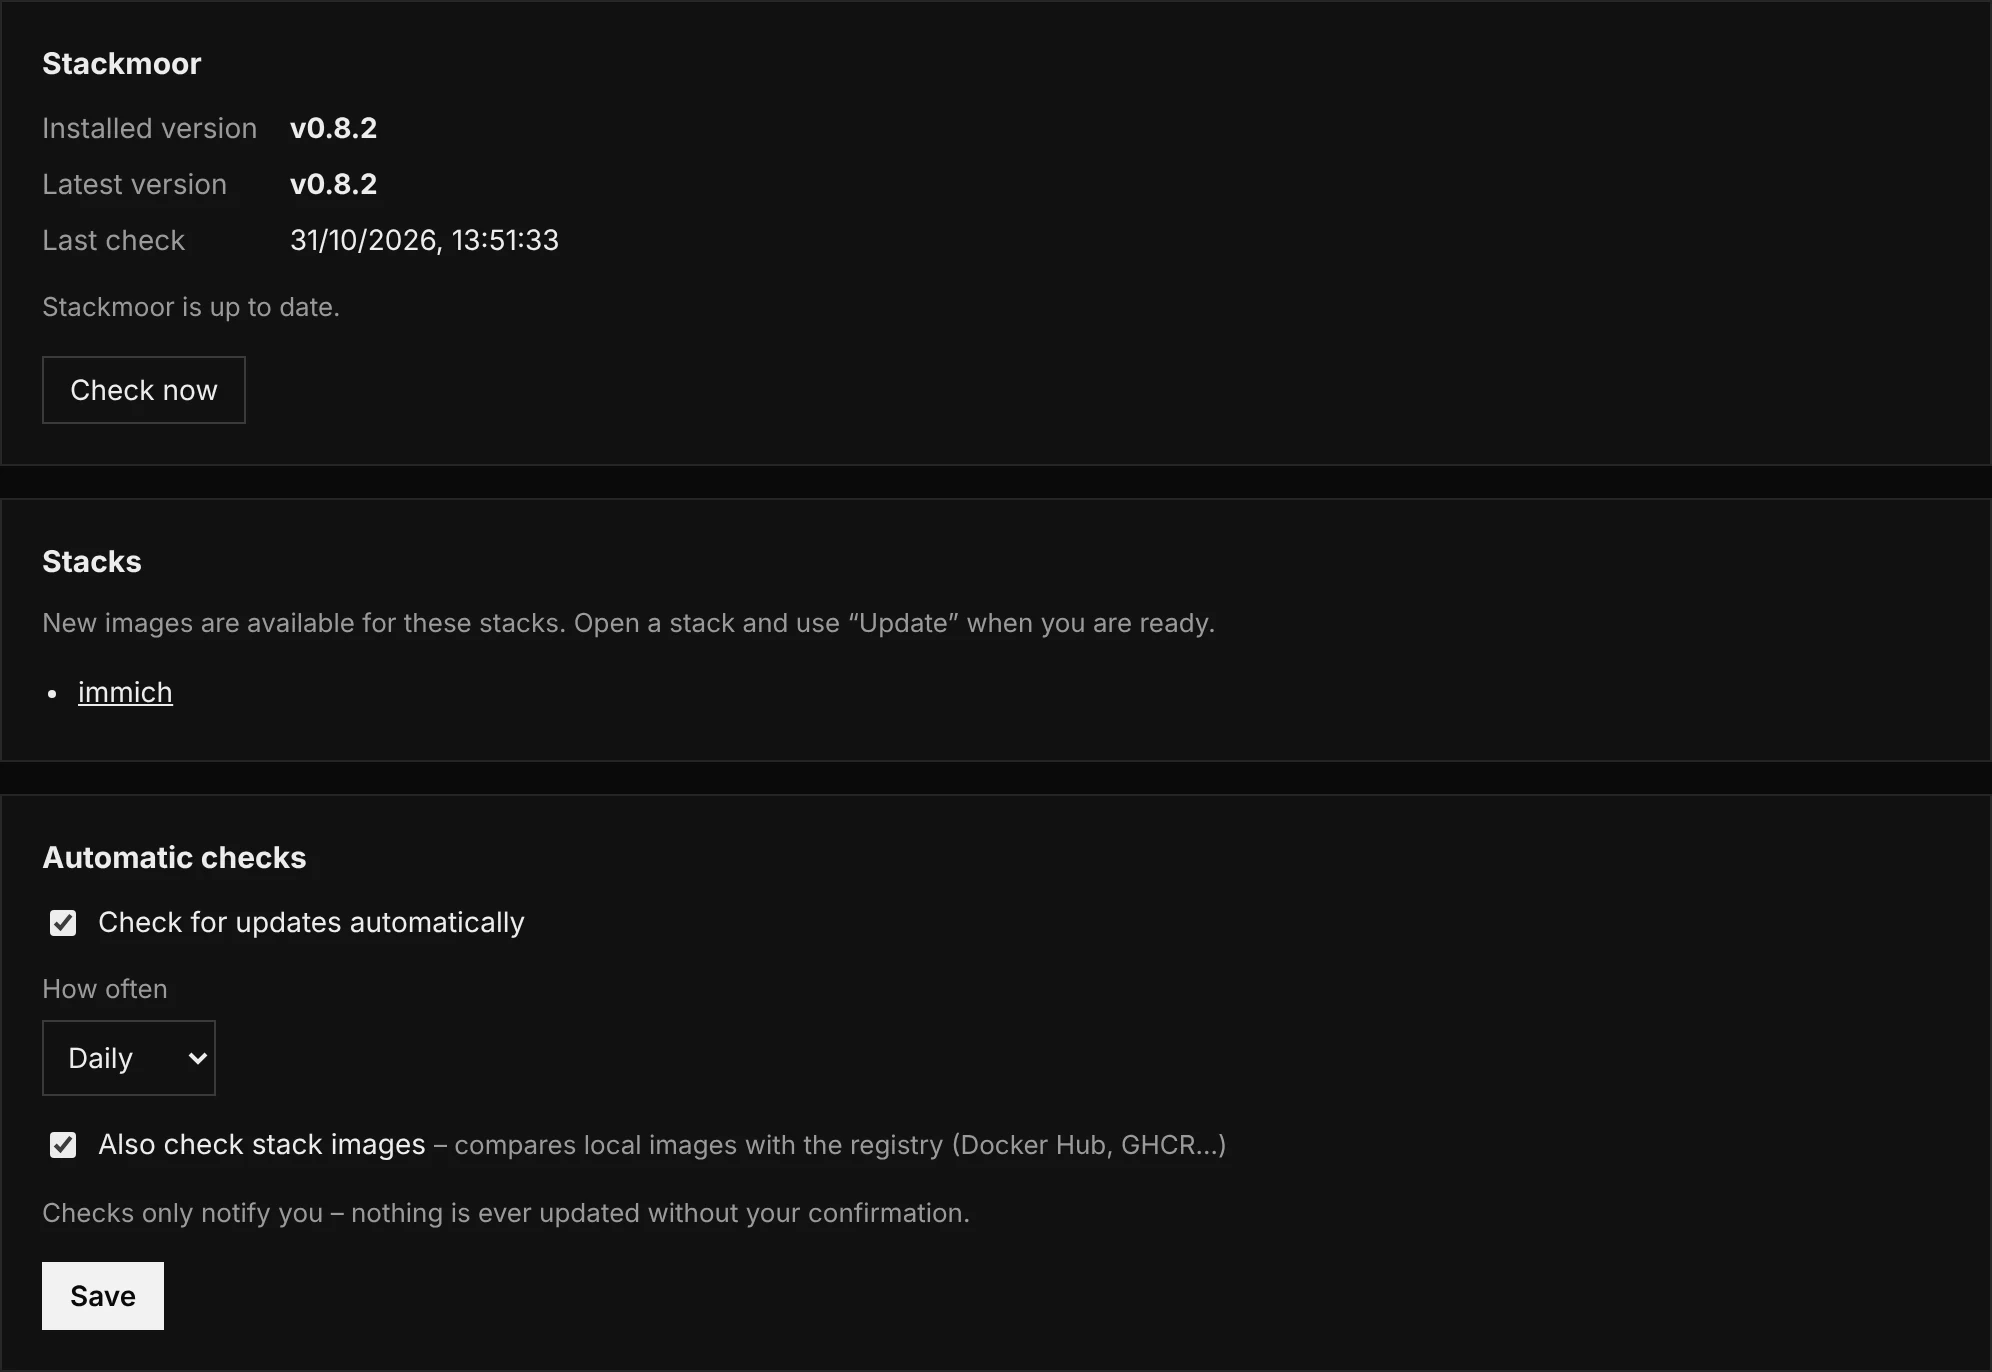
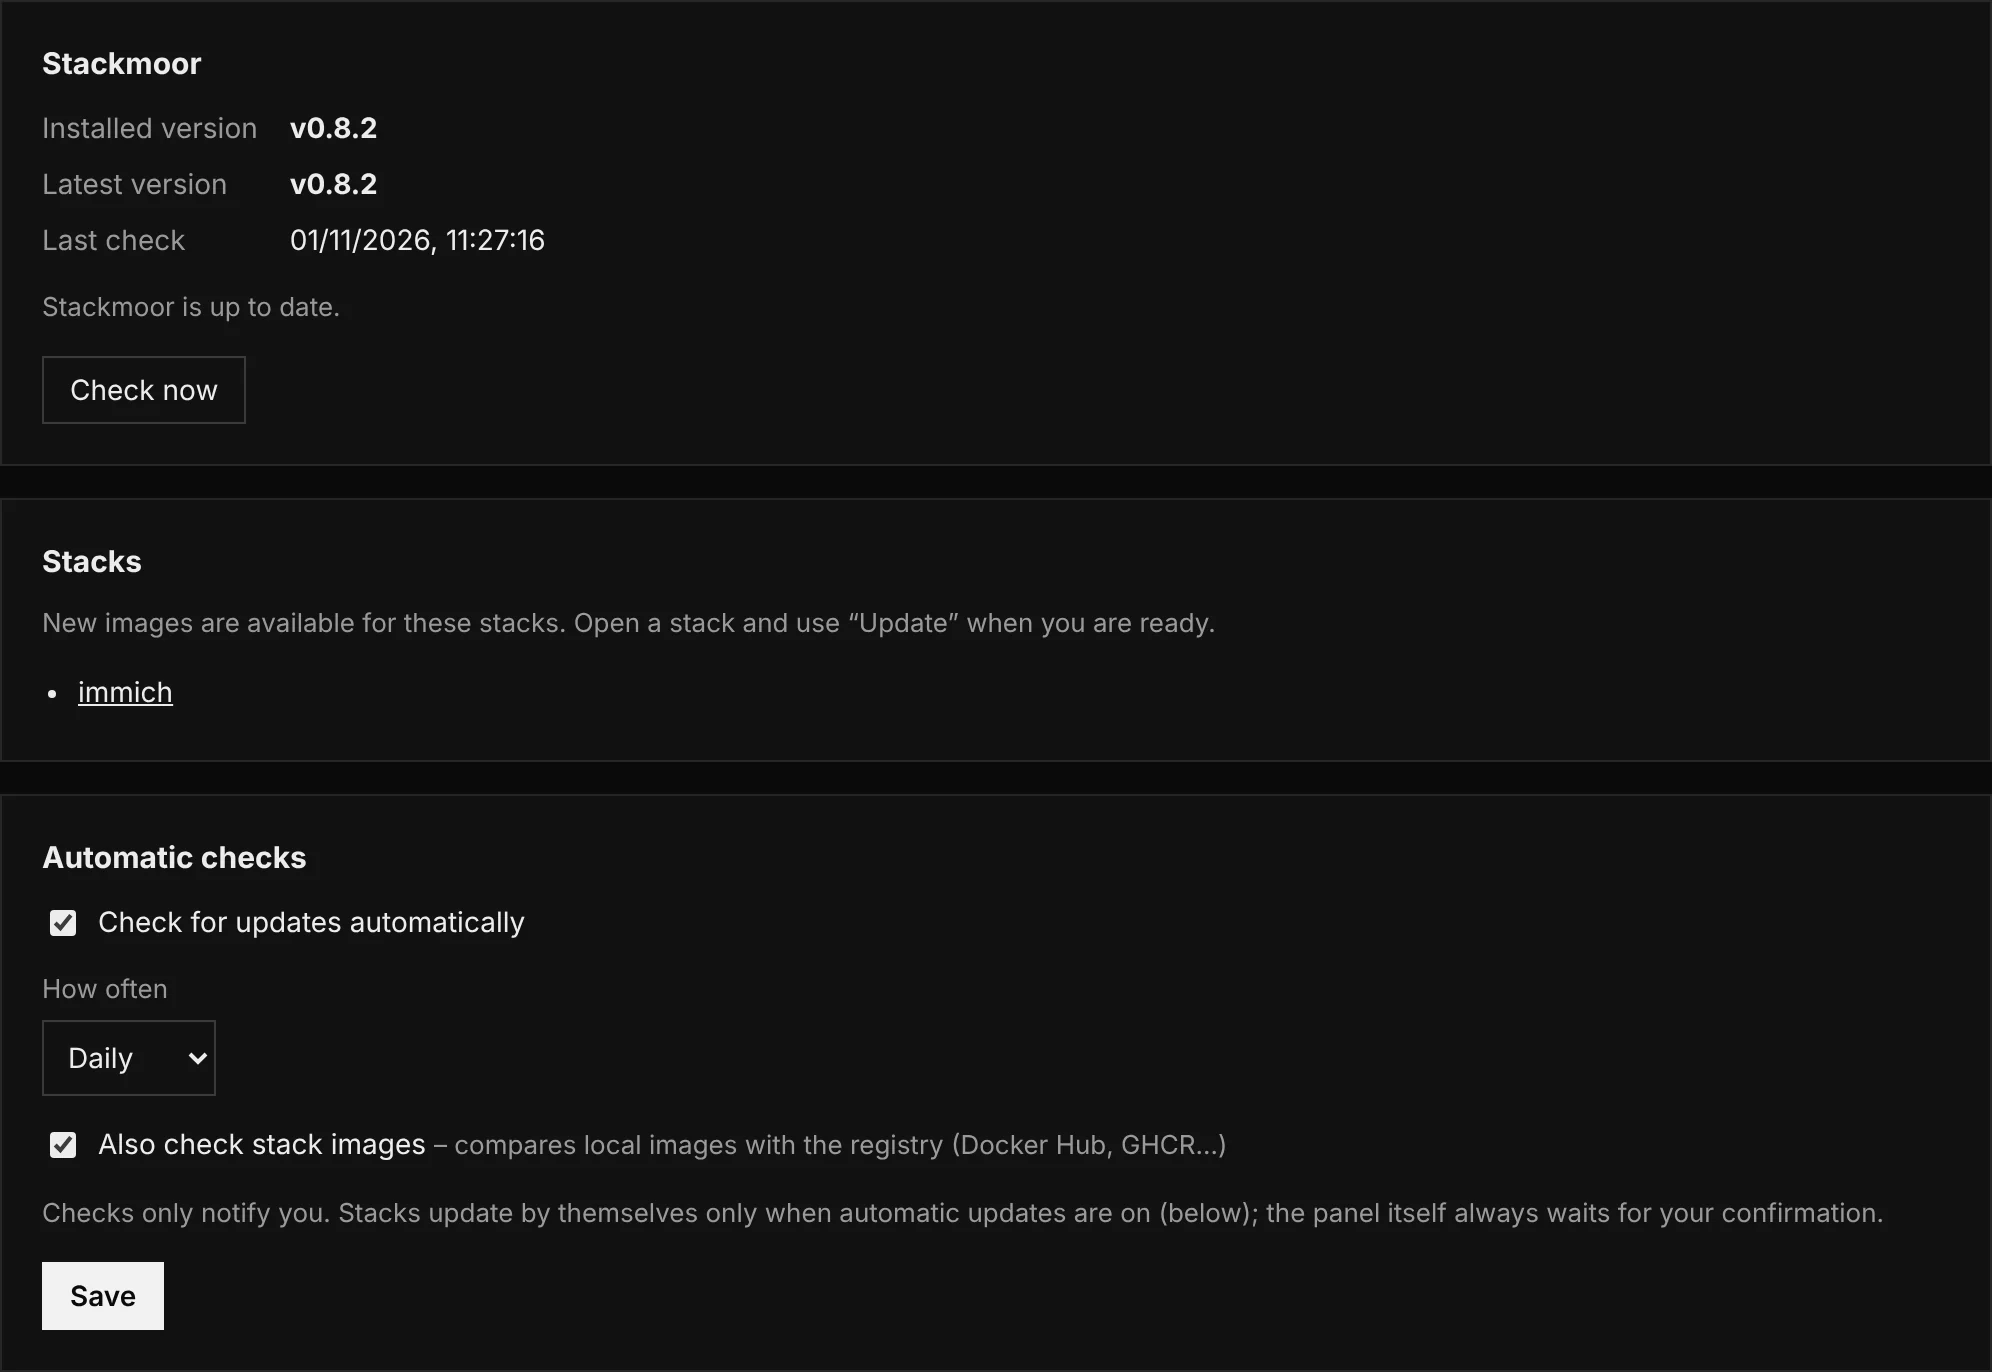
Docs: automatic updates, Server page, proxy redirects

diff --git a/src/content/docs/pl/guides/updates.md b/src/content/docs/pl/guides/updates.md
@@ -3,7 +3,7 @@ title: Aktualizacje
 description: Jak Stackmoor sprawdza nowe wersje siebie i obrazów Twoich stacków.
 ---
 
-Stackmoor informuje, gdy pojawi się coś nowego. **Nic nie jest aktualizowane bez Twojego potwierdzenia.**
+Stackmoor informuje, gdy pojawi się coś nowego. Stacki aktualizują się same tylko po włączeniu [automatycznych aktualizacji](#automatyczne-aktualizacje); sam panel zawsze czeka na Twoje potwierdzenie.
 
 ## Ustawienia
 
@@ -14,8 +14,8 @@ Stackmoor informuje, gdy pojawi się coś nowego. **Nic nie jest aktualizowane b
 - **Sprawdź teraz** – sprawdza od razu.
 
 <figure class="shot" data-shot="updates">
-<img class="shot-light" src="/screens/pl/updates-light.webp" alt="Ustawienia → Aktualizacje" width="996" height="686" loading="lazy" decoding="async" />
-<img class="shot-dark" src="/screens/pl/updates-dark.webp" alt="Ustawienia → Aktualizacje" width="996" height="686" loading="lazy" decoding="async" />
+<img class="shot-light" src="/screens/pl/updates-light.webp" alt="Ustawienia → Aktualizacje" width="996" height="705" loading="lazy" decoding="async" />
+<img class="shot-dark" src="/screens/pl/updates-dark.webp" alt="Ustawienia → Aktualizacje" width="996" height="705" loading="lazy" decoding="async" />
 </figure>
 
 ## Aktualizacja stacka
@@ -23,6 +23,33 @@ Stackmoor informuje, gdy pojawi się coś nowego. **Nic nie jest aktualizowane b
 Stack z nowym obrazem ma na pulpicie oznaczenie **Aktualizacja**, a na liście stacków strzałkę. Kliknij **Aktualizuj** na jego karcie (albo otwórz go i kliknij **Aktualizuj**): nowe obrazy zostaną pobrane, a kontenery odtworzone. Dane w `./data` zostają.
 
 Jeśli [kopie zapasowe](/pl/backups/setup/) są skonfigurowane, najpierw robi się kopia stacka. Jeśli się nie uda, aktualizacja się nie wykona.
+
+## Automatyczne aktualizacje
+
+Jak w Cloudronie, stacki mogą aktualizować się same. Domyślnie jest to **wyłączone**. Włączysz to w **Ustawienia → Aktualizacje → Automatyczne aktualizacje stacków**:
+
+- wybierz dni i godzinę (np. codziennie o 4:00 – po nocnej kopii),
+- odznacz stacki, które wolisz aktualizować sam, np. bazy danych. Nowe stacki są zaznaczone.
+
+<figure class="shot" data-shot="auto-updates">
+<img class="shot-light" src="/screens/pl/auto-updates-light.webp" alt="Automatyczne aktualizacje stacków" width="996" height="885" loading="lazy" decoding="async" />
+<img class="shot-dark" src="/screens/pl/auto-updates-dark.webp" alt="Automatyczne aktualizacje stacków" width="996" height="885" loading="lazy" decoding="async" />
+</figure>
+
+Co dzieje się o tej porze, stack po stacku:
+
+1. Aktualizowane są tylko **działające** stacki z nowszym obrazem. Zatrzymane są pomijane.
+2. Jeśli [kopie zapasowe](/pl/backups/setup/) są skonfigurowane, najpierw robi się kopia stacka. Jeśli się nie uda, stack nie jest aktualizowany.
+3. Pobierane są nowe obrazy i odtwarzane kontenery – tak samo jak przyciskiem **Aktualizuj**.
+4. Panel obserwuje kontenery przez chwilę. Jeśli któryś zatrzyma się z błędem, ciągle się restartuje albo zgłasza *unhealthy*, stack **wraca do obrazów, które miał wcześniej**.
+
+Każde uruchomienie widać w **Ostatnie automatyczne aktualizacje** i w historii stacka (*Automatyczna aktualizacja*, *Powrót do poprzedniej wersji*). **Uruchom teraz** startuje od razu.
+
+Sam panel nigdy nie aktualizuje się automatycznie – zawsze czeka na Twoje potwierdzenie.
+
+:::note
+Powrót przywraca poprzednie **obrazy**, nie dane. Jeśli nowa wersja zdążyła zmienić swoją bazę danych i potem się wywaliła, przywróć kopię zrobioną przed aktualizacją w zakładce **Kopie** stacka.
+:::
 
 ## Caddy aktualizuje się razem z panelem
 

diff --git a/src/content/docs/pl/guides/server.md b/src/content/docs/pl/guides/server.md
@@ -1,0 +1,39 @@
+---
+title: Serwer
+description: Restart serwera z panelu albo według harmonogramu, informacja o wymaganym restarcie i automatyczne łatki systemu.
+---
+
+**Ustawienia → Serwer** dotyczy maszyny, na której działa Stackmoor: jak długo działa, czy wymaga restartu, restarty (od razu albo według harmonogramu) i aktualizacje bezpieczeństwa samego systemu.
+
+<figure class="shot" data-shot="server">
+<img class="shot-light" src="/screens/pl/server-light.webp" alt="Ustawienia → Serwer" width="996" height="1092" loading="lazy" decoding="async" />
+<img class="shot-dark" src="/screens/pl/server-dark.webp" alt="Ustawienia → Serwer" width="996" height="1092" loading="lazy" decoding="async" />
+</figure>
+
+## Restart serwera
+
+**Uruchom ponownie serwer** po potwierdzeniu restartuje całą maszynę. Panel i wszystkie stacki zatrzymują się na minutę lub dwie; strona czeka i odświeża się sama, gdy panel wróci.
+
+Po każdym restarcie – z panelu, według harmonogramu, po łatce albo po braku prądu – Stackmoor uruchamia stacki, które działały wcześniej. Także te bez `restart:` w compose, które Docker zostawiłby zatrzymane. Stack, który sam zatrzymałeś, zostaje zatrzymany.
+
+Gdy trwa kopia zapasowa albo automatyczna aktualizacja, panel nie restartuje serwera – spróbuj ponownie, gdy się skończy.
+
+## Restarty według harmonogramu
+
+Włącz **Uruchamiaj serwer ponownie według harmonogramu** i wybierz dni oraz godzinę, np. niedziela 5:00. Jeśli o tej porze trwa jeszcze kopia albo automatyczna aktualizacja, panel poczeka, aż się skończy (najwyżej dwie godziny). Zaraz po restarcie nigdy nie restartuje ponownie.
+
+## Łatki systemu
+
+Na **Debianie i Ubuntu** system może codziennie sam instalować aktualizacje bezpieczeństwa (standardowy pakiet `unattended-upgrades`):
+
+- **Włącz automatyczne łatki** – w razie potrzeby instaluje `unattended-upgrades` i go włącza. To samo proponuje instalator podczas instalacji Stackmoor.
+- **Restart po łatce** – niektóre łatki (np. nowe jądro) działają dopiero po restarcie. Po włączeniu serwer uruchomi się ponownie sam o wybranej godzinie, ale tylko wtedy, gdy łatka tego wymaga. Wybierz godzinę po nocnej kopii.
+
+Gdy system wymaga restartu, strona to pokazuje razem z pakietami, które go wymagają.
+
+Na Unraidzie system aktualizujesz w samym Unraidzie (**Tools → Update OS**).
+
+## Warto wiedzieć
+
+- Stackmoor działa w kontenerze. Żeby zrestartować serwer i odczytać jego stan, uruchamia krótko działający kontener pomocniczy z dostępem do systemu. Panel i tak steruje Dockerem, więc nie dostaje przez to nic nowego.
+- Jeśli panel pokazuje, że nie może dostać się do serwera, to Stackmoor nie działa na nim jako kontener (np. przy uruchomieniu na laptopie do testów).

diff --git a/src/content/docs/guides/server.md b/src/content/docs/guides/server.md
@@ -1,0 +1,39 @@
+---
+title: Server
+description: Restart the server from the panel or on a schedule, see when it needs a restart, and turn on automatic system patches.
+---
+
+**Settings → Server** is about the machine Stackmoor runs on: how long it has been running, whether it needs a restart, restarts (now or on a schedule) and security updates of the system itself.
+
+<figure class="shot" data-shot="server">
+<img class="shot-light" src="/screens/en/server-light.webp" alt="Settings → Server" width="996" height="1092" loading="lazy" decoding="async" />
+<img class="shot-dark" src="/screens/en/server-dark.webp" alt="Settings → Server" width="996" height="1092" loading="lazy" decoding="async" />
+</figure>
+
+## Restart the server
+
+**Restart the server** restarts the whole machine after you confirm. The panel and all stacks stop for a minute or two; the page waits and reloads by itself when the panel is back.
+
+After every restart – from the panel, on a schedule, after a patch or after a power cut – Stackmoor starts the stacks that were running before. That includes stacks without `restart:` in their compose file, which Docker would otherwise leave stopped. A stack you stopped yourself stays stopped.
+
+When a backup or an automatic update is running, the panel doesn't restart the server – try again when it has finished.
+
+## Scheduled restarts
+
+Turn on **Restart the server on a schedule** and choose the days and the time, e.g. Sunday at 5:00. If a backup or an automatic update is still running at that time, the panel waits for it to finish (up to two hours). Right after a restart it never restarts again.
+
+## System patches
+
+On **Debian and Ubuntu** the system can install its own security updates every day (the standard `unattended-upgrades` package):
+
+- **Turn on automatic patches** installs `unattended-upgrades` if needed and switches it on. The installer offers the same when you install Stackmoor.
+- **Restart after a patch** – some patches (e.g. a new kernel) only work after a restart. With this on, the server restarts by itself at the chosen time, but only when a patch needs it. Pick a time after the nightly backup.
+
+When the system needs a restart, the page shows it together with the packages that need it.
+
+On Unraid the system is updated in Unraid itself (**Tools → Update OS**).
+
+## Good to know
+
+- Stackmoor runs in a container. To restart the server and read its state, it starts a short-lived helper container with access to the host. It controls Docker already, so this gives it nothing it didn't have.
+- If the panel shows that it can't reach the server, Stackmoor isn't running as a container on that server (e.g. during development on a laptop).

diff --git a/src/content/docs/guides/updates.md b/src/content/docs/guides/updates.md
@@ -3,7 +3,7 @@ title: Updates
 description: How Stackmoor checks for new versions of itself and of your stacks' images.
 ---
 
-Stackmoor tells you when something new is available. **Nothing is ever updated without your confirmation.**
+Stackmoor tells you when something new is available. Stacks update by themselves only if you turn on [automatic updates](#automatic-updates); the panel itself always waits for your confirmation.
 
 ## Settings
 
@@ -23,6 +23,33 @@ Stackmoor tells you when something new is available. **Nothing is ever updated w
 A stack with a new image is marked **Update** on the dashboard and gets an arrow in the stack list. Click **Update** on its card (or open it and click **Update**): new images are pulled and the containers recreated. Data in `./data` is kept.
 
 If [backups](/backups/setup/) are set up, the stack is backed up first. If that backup fails, the update does not run.
+
+## Automatic updates
+
+Like in Cloudron, stacks can update themselves. It is **off** by default. Turn it on in **Settings → Updates → Automatic stack updates**:
+
+- choose the days and the time (e.g. every day at 4:00 – after the nightly backup),
+- untick the stacks you want to update yourself, e.g. databases. New stacks are included.
+
+<figure class="shot" data-shot="auto-updates">
+<img class="shot-light" src="/screens/en/auto-updates-light.webp" alt="Automatic stack updates" width="996" height="863" loading="lazy" decoding="async" />
+<img class="shot-dark" src="/screens/en/auto-updates-dark.webp" alt="Automatic stack updates" width="996" height="863" loading="lazy" decoding="async" />
+</figure>
+
+What happens at that time, one stack after another:
+
+1. Only **running** stacks with a newer image are updated. Stopped stacks are skipped.
+2. If [backups](/backups/setup/) are set up, the stack is backed up first. If the backup fails, the stack isn't updated.
+3. New images are pulled and the containers recreated – the same as the **Update** button.
+4. The panel watches the containers for a while. If one stops with an error, keeps restarting or reports *unhealthy*, the stack **goes back to the images it had before**.
+
+Every run is listed under **Latest automatic updates** and in the stack's history (*Automatic update*, *Back to the previous version*). **Run now** starts a run right away.
+
+The panel itself is never updated automatically – it always waits for your confirmation.
+
+:::note
+Going back restores the previous **images**, not the data. If a new version already changed its database and then failed, restore the backup made before the update in the stack's **Backups** tab.
+:::
 
 ## Caddy updates with the panel
 

diff --git a/src/content/docs/pl/guides/proxy.md b/src/content/docs/pl/guides/proxy.md
@@ -47,4 +47,5 @@ Proxy nie ma przycisku **Restart** ani kopii: Stackmoor nie zarządza tym serwer
 
 - Cel musi być osiągalny **z serwera**, na którym działa Stackmoor – to serwer się łączy, nie Twoja przeglądarka.
 - WebSockety działają bez ustawień, więc konsole w przeglądarce (noVNC w Proxmoxie, Home Assistant) też działają.
+- Gdy cel przekierowuje na swój własny adres (Unraid odsyła na `http://192.168.1.10:8086/Dashboard`), Stackmoor zamienia go z powrotem na Twój adres – tak samo jak Nginx Proxy Manager. Przekierowania na inne adresy zostają bez zmian.
 - Stack z `network_mode: host` nie potrzebuje proxy: nadaj mu adres w jego zakładce **Domena**, z portem, na którym słucha.

diff --git a/src/content/docs/guides/proxy.md b/src/content/docs/guides/proxy.md
@@ -47,4 +47,5 @@ There is no **Restart** or backup for a proxy: Stackmoor does not manage that se
 
 - The target must be reachable **from the server** running Stackmoor – it is the server that connects, not your browser.
 - WebSockets work without any setting, so web consoles (Proxmox noVNC, Home Assistant) work too.
+- When the target redirects to its own address (Unraid sends you to `http://192.168.1.10:8086/Dashboard`), Stackmoor turns that back into your address – just like Nginx Proxy Manager. Redirects to other addresses are left alone.
 - A stack running with `network_mode: host` doesn't need a proxy: give it an address in its own **Domain** tab with the port it listens on.
